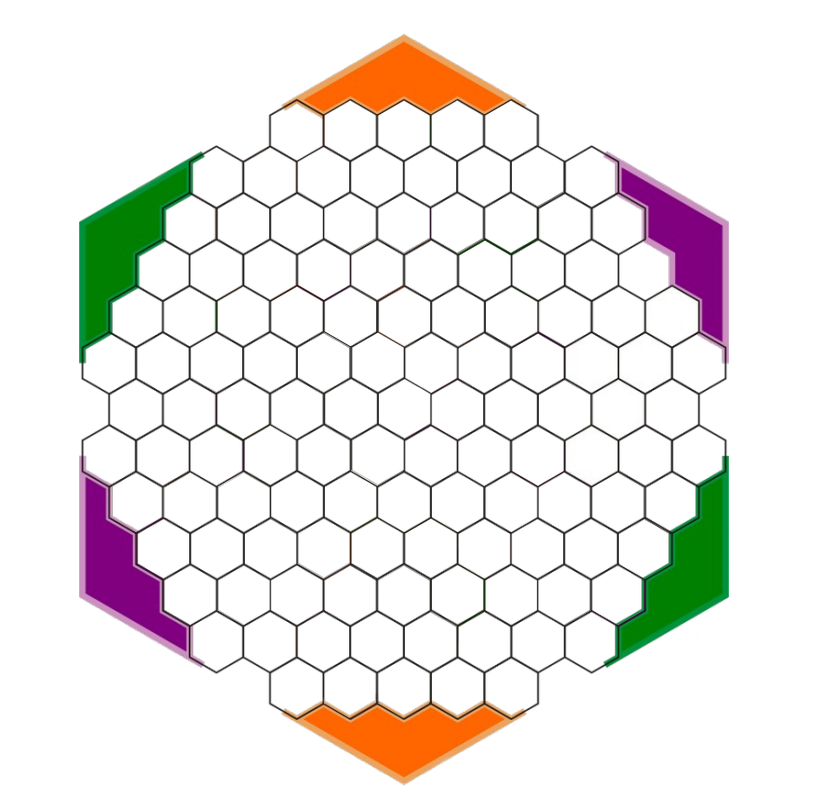
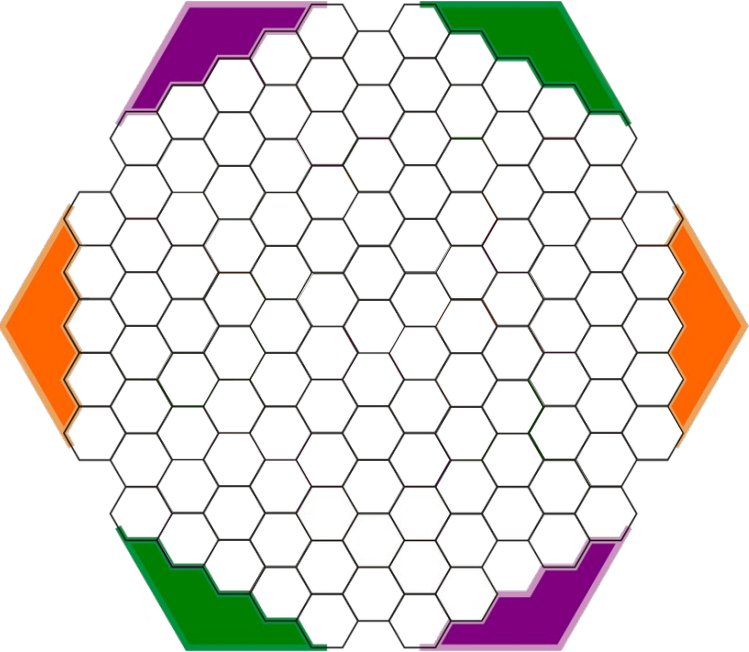
Added textures to board and boxes

diff --git a/TP3/src/game/MyGameBoard.js b/TP3/src/game/MyGameBoard.js
@@ -22,8 +22,11 @@ class MyGameBoard extends CGFobject {
         this.pieceCounters["orange"] = new MySpriteText(this.scene, this.pieceBoxes["orange"].nPieces.toString());
         this.pieceCounters["green"] = new MySpriteText(this.scene, this.pieceBoxes["green"].nPieces.toString());
 
-
         this.create();
+
+        this.boardPlane = new MyRectangle(this.scene, 0, -10.5, 12, 0, 12, 10.5);
+        this.boardTexture = new CGFtexture(this.scene, "images/board_clear.png");
+        this.tileTexture = new CGFtexture(this.scene, "images/tile.png");
         // var testPiece1 = new MyPiece(this.scene, "purple");
         // var testPiece2 = new MyPiece(this.scene, "green");
         // var testPiece3 = new MyPiece(this.scene, "purple");
@@ -116,12 +119,19 @@ class MyGameBoard extends CGFobject {
     }
 
     display() {
-        this.scene.pushMatrix();
 
         this.scene.rotate(-Math.PI/2, 1, 0, 0);
 
-        this.scene.translate(-3.5 * this.horShift + this.horShift/2, 11.5 * this.vertShift - this.vertShift/2, 0);
+        this.scene.translate(-3.5 * this.horShift + this.horShift/2, 11.5 * this.vertShift - this.vertShift/2, -1.3);
 
+        this.scene.pushMatrix();
+        this.scene.translate(-1.5, 0.5, 0);
+        this.boardTexture.bind();
+        this.boardPlane.display();
+        this.scene.popMatrix();
+        this.scene.pushMatrix();
+
+        this.tileTexture.bind();
         for(var line = 1; line <= 23; ++line) {
             this.scene.pushMatrix();
             var lineLength = this.lineLengths[line-1];
@@ -145,7 +155,7 @@ class MyGameBoard extends CGFobject {
         }
 
         this.scene.pushMatrix();
-            this.scene.translate(0, 3, 0);
+            this.scene.translate(0, 3, 0.9);
             this.pieceBoxes["purple"].display();
             this.scene.pushMatrix();
             this.scene.translate(0, 0, 1.2);

diff --git a/TP3/src/game/MyPieceBox.js b/TP3/src/game/MyPieceBox.js
@@ -22,6 +22,8 @@ class MyPieceBox extends CGFobject{
         }
         // this.findStyle();
         this.rectangle = new MyRectangle(this.scene, -0.5, -0.5, 0.5, 0.5, 1, 1);
+
+        this.boxText = new CGFtexture(this.scene, "./images/basket_text.jpg");
         this.obj = new CGFOBJModel(this.scene, "./images/basket.obj", 0);
     }
 
@@ -66,7 +68,7 @@ class MyPieceBox extends CGFobject{
         this.scene.scale(2,2,2);
         this.scene.rotate(Math.PI/2, 0,0,1);
         this.scene.rotate(Math.PI/2, 1,0,0);
-        
+        this.boxText.bind();
         this.obj.display();
         this.scene.popMatrix();
     } 

diff --git a/TP3/src/primitives/objects/CGFOBJModel.js b/TP3/src/primitives/objects/CGFOBJModel.js
@@ -156,8 +156,8 @@ class CGFOBJModel extends CGFobject{
 	  }
 	  console.log("Loaded mesh "+ this.url +" with " + this.vcount + " vertices / "+ this.fcount + " faces");
 
-		if (this.texcoords.length==0) {
-			this.texcoords=null;
+		if (this.texCoords.length==0) {
+			this.texCoords=null;
 		}
 			
 		if (!this.wireframe)
